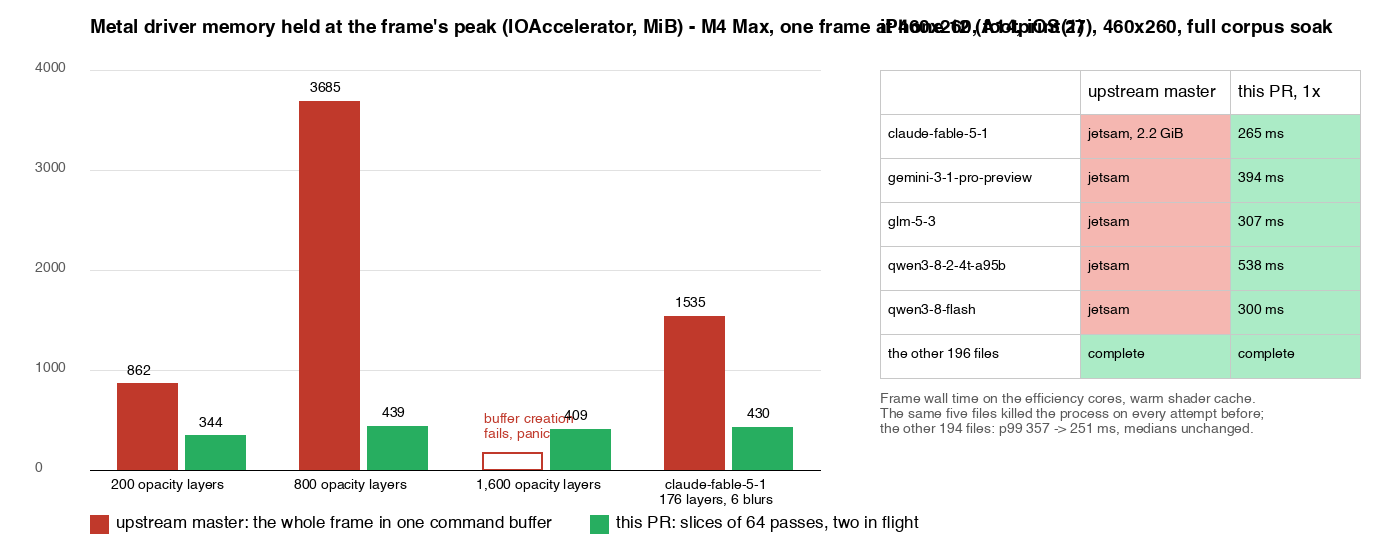
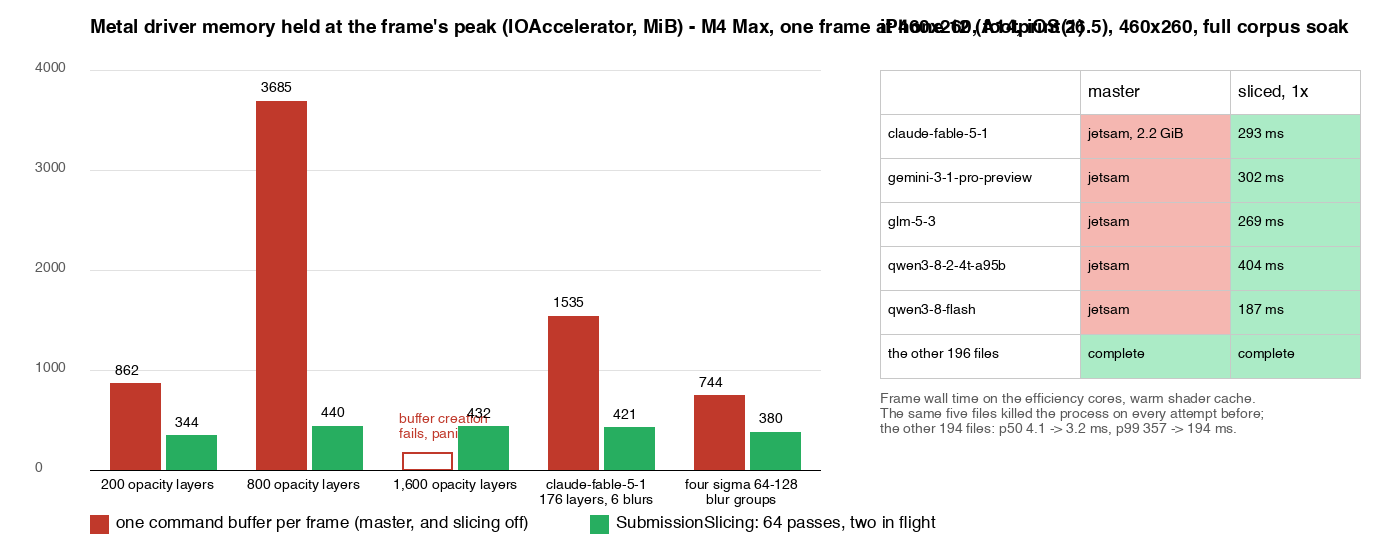
harness: opt into submission slicing (NO_SLICES=1 disables); slicing evidence report and blur-chain probe

diff --git a/harness/_logos_full.rs b/harness/_logos_full.rs
@@ -1611,7 +1611,11 @@ fn rusage() -> (f64, u64) {
 }
 
 fn soak(device: &wgpu::Device, queue: &wgpu::Queue, out_csv: &str, list: &str) {
-    let renderer = WGPURenderer::new(device.clone(), queue.clone());
+    let mut renderer = WGPURenderer::new(device.clone(), queue.clone());
+    // NO_SLICES=1 renders each frame as one command buffer, the library default.
+    if std::env::var_os("NO_SLICES").is_none() {
+        renderer.set_submission_slicing(Some(femtovg::renderer::SubmissionSlicing::default()));
+    }
     let mut canvas = Canvas::new(renderer).unwrap();
     canvas.set_size(frame_w(), frame_h(), 1.0);
     let zooms: Vec<f32> = std::env::var("SOAK_ZOOMS")
@@ -1718,7 +1722,11 @@ fn main() {
     }))
     .unwrap();
 
-    let renderer = WGPURenderer::new(device.clone(), queue.clone());
+    let mut renderer = WGPURenderer::new(device.clone(), queue.clone());
+    // NO_SLICES=1 renders each frame as one command buffer, the library default.
+    if std::env::var_os("NO_SLICES").is_none() {
+        renderer.set_submission_slicing(Some(femtovg::renderer::SubmissionSlicing::default()));
+    }
     let mut canvas = Canvas::new(renderer).unwrap();
     canvas.set_size(frame_w(), frame_h(), 1.0);
     // Experiments: lift the transient-image budget (MiB), and report layer counts.

diff --git a/harness/submission-slices-2026-09-28.md b/harness/submission-slices-2026-09-28.md
@@ -1,0 +1,37 @@
+# Submission slicing on the WGPU backend (femtovg #367 / #368)
+
+Metal keeps about 2.3 MiB of driver memory (`IOAccelerator` shared regions:
+sixteen of 32 KiB, two of 256 KiB, one of 768 KiB, one of 1 MiB) per render
+command encoder until its command buffer completes, whatever the target size.
+One command buffer per frame therefore holds memory proportional to the
+frame's pass count. `WGPURenderer::set_submission_slicing` submits the frame
+in slices of 64 passes with at most two unfinished.
+
+## Peak driver memory, one frame at 460x260, M4 Max (`footprint(1)`)
+
+| frame | one command buffer | slices of 64 |
+|---|---|---|
+| 200 opacity layers | 862 MiB | 344 MiB |
+| 800 opacity layers | 3,685 MiB | 440 MiB |
+| 1,600 opacity layers | buffer creation fails (`Buffer with '' label is invalid`) | 432 MiB |
+| claude-fable-5-1 (176 layers, 6 blurs) | 1,535 MiB | 421 MiB |
+| four sigma 64..128 blur groups (`corpus/probes/bigblur.svg`, a 372-pass chain) | 744 MiB | 380 MiB |
+
+The same 800-layer frame at 1920x1080 holds the same 3,685 MiB: per pass, not per pixel.
+
+## Pixels and time
+
+- 576 corpus frames at 1x/2x/4x: bit-identical against upstream master and against the same build with slicing off (`harness/ab.py`).
+- Soak, 201 files x 3 zooms x 3 passes, M4 Max: wall p50 1.0 / p95 35.7 / p99 66.4 / max 138 ms with slicing off, 1.0 / 28.3 / 43.7 / 68 ms on; RSS high-water 754 -> 163 MiB.
+- `tests/submission_slices_wgpu.rs`: 63/64/65-pass frames slice as `[63]`, `[64]`, `[64, 1]`; a mixed scene renders identically in slices of 1, 3, 7, 8 and 13 passes; the prepass order with and without slicing; a child process measures the 176-layer portrait's footprint, 900 MiB sliced against 1,564 MiB in one buffer.
+
+## iPhone 12 (A14, iOS 26.5), 460x260, efficiency cores
+
+Full corpus, one pass at 1x/2x/4x, warm shader cache; master figures from the same harness at upstream master (the five files it cannot hold excluded from the common set).
+
+| | master | sliced |
+|---|---|---|
+| claude-fable-5-1, gemini-3-1-pro-preview, glm-5-3, qwen3-8-2-4t-a95b, qwen3-8-flash | jetsam at the 2.2 GiB per-process limit | 187-404 ms at 1x |
+| the other 194 files (582 frames), wall p50 / p95 / p99 / max, ms | 4.1 / 173 / 357 / 1,534 | 3.2 / 117 / 194 / 244 |
+
+Instruments cannot record the phone while these frames run: the device-side `DTServiceHub` writes the trace at ~1.9 MB/s, exceeds its 4.3 GB per day disk-write budget (`DTServiceHub.diskwrites_resource-*.ips`) and the recording reports "Device disconnected"; a Mac-side hub left by a killed `xctrace` breaks every later recording until killed.
